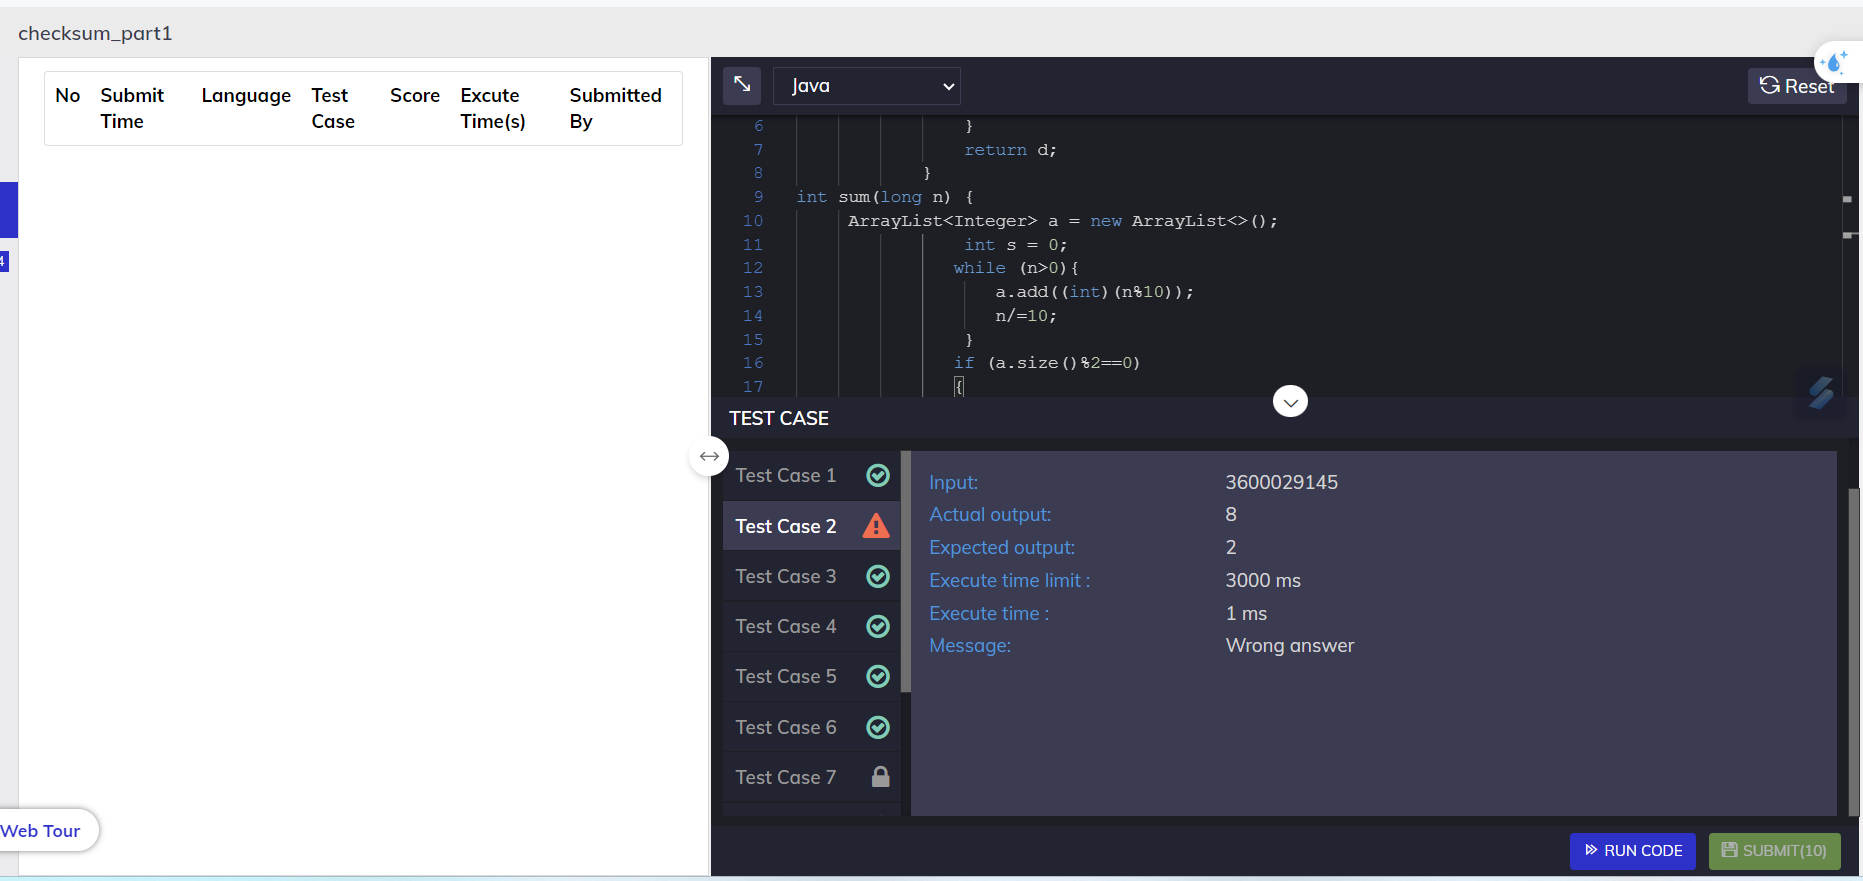
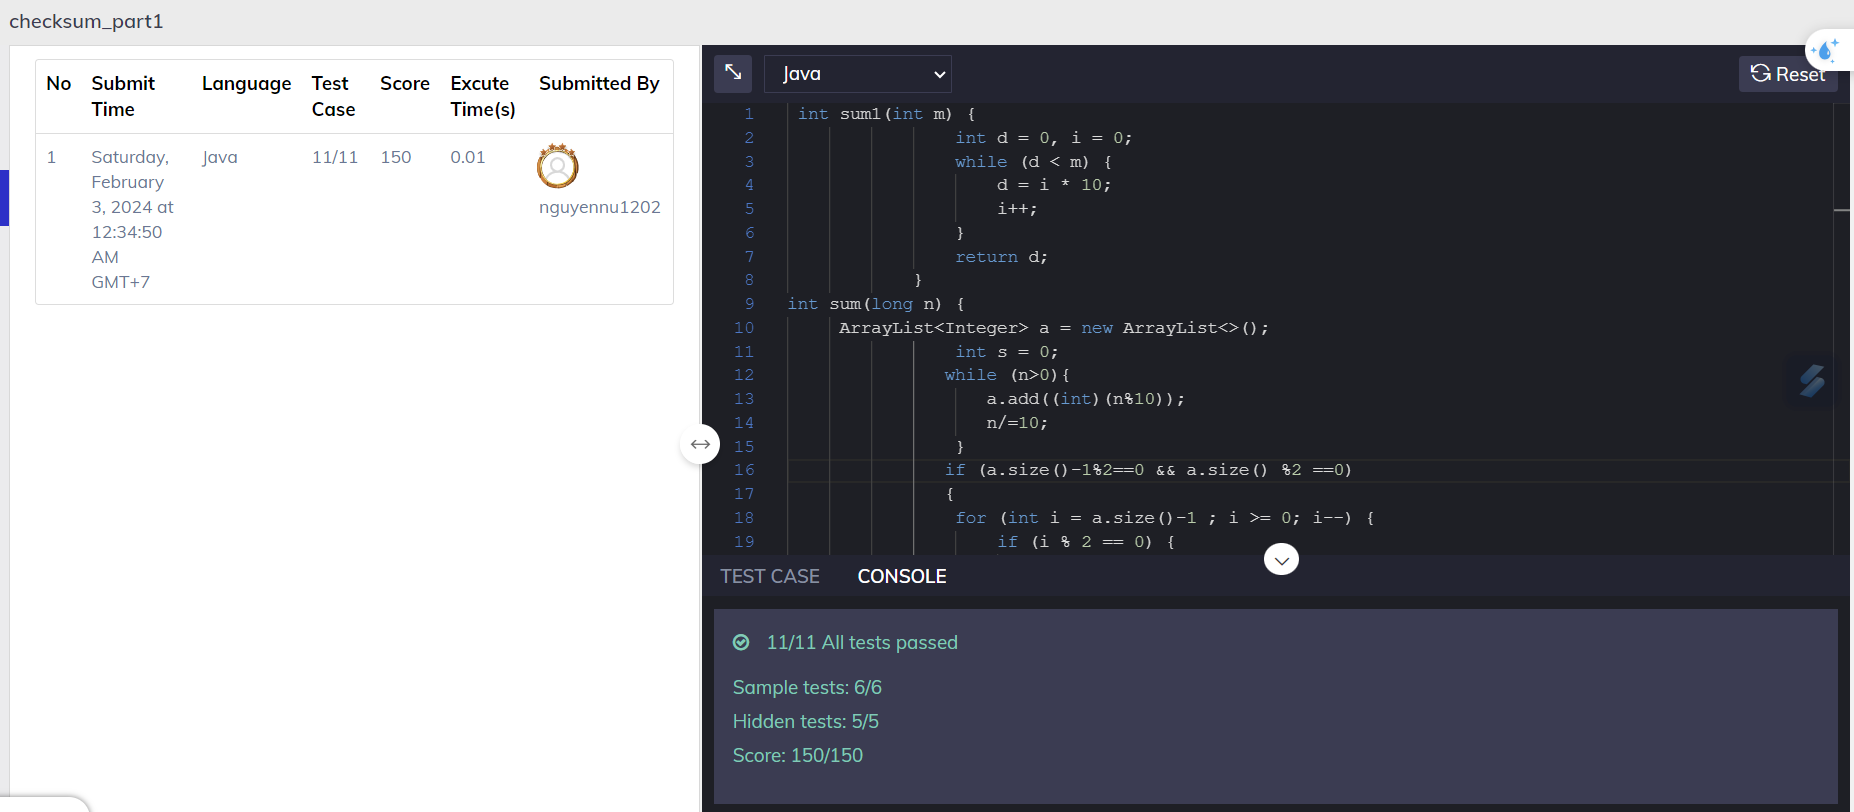
bai tap

diff --git a/QE180147_NGUYENTHIMYNU/src/baitapthaygiao/checksum_1.java b/QE180147_NGUYENTHIMYNU/src/baitapthaygiao/checksum_1.java
@@ -3,16 +3,15 @@
  * Click nbfs://nbhost/SystemFileSystem/Templates/Classes/Class.java to edit this template
  */
 package baitapthaygiao;
-import java.util.ArrayList;
+   import java.util.ArrayList;
 import java.util.Scanner;
+
 /**
  *
  * @author ASUS
  */
-public class bai1 {
-   
-
-
+public class checksum_1 {
+ 
 
 	    public static class GTIN {
 
@@ -35,7 +34,7 @@ public class bai1 {
 	        	   a.add((int)(n%10));
 	        	   n/=10;
 	            }
-	           if (a.size()%2==0)
+	            if (a.size()-1%2==0 && a.size() %2 ==0)
 	           {
 	            for (int i = a.size()-1 ; i >= 0; i--) {
 	                if (i % 2 == 0) {
@@ -79,3 +78,4 @@ public class bai1 {
 	        }
 	    }
 	}
+
